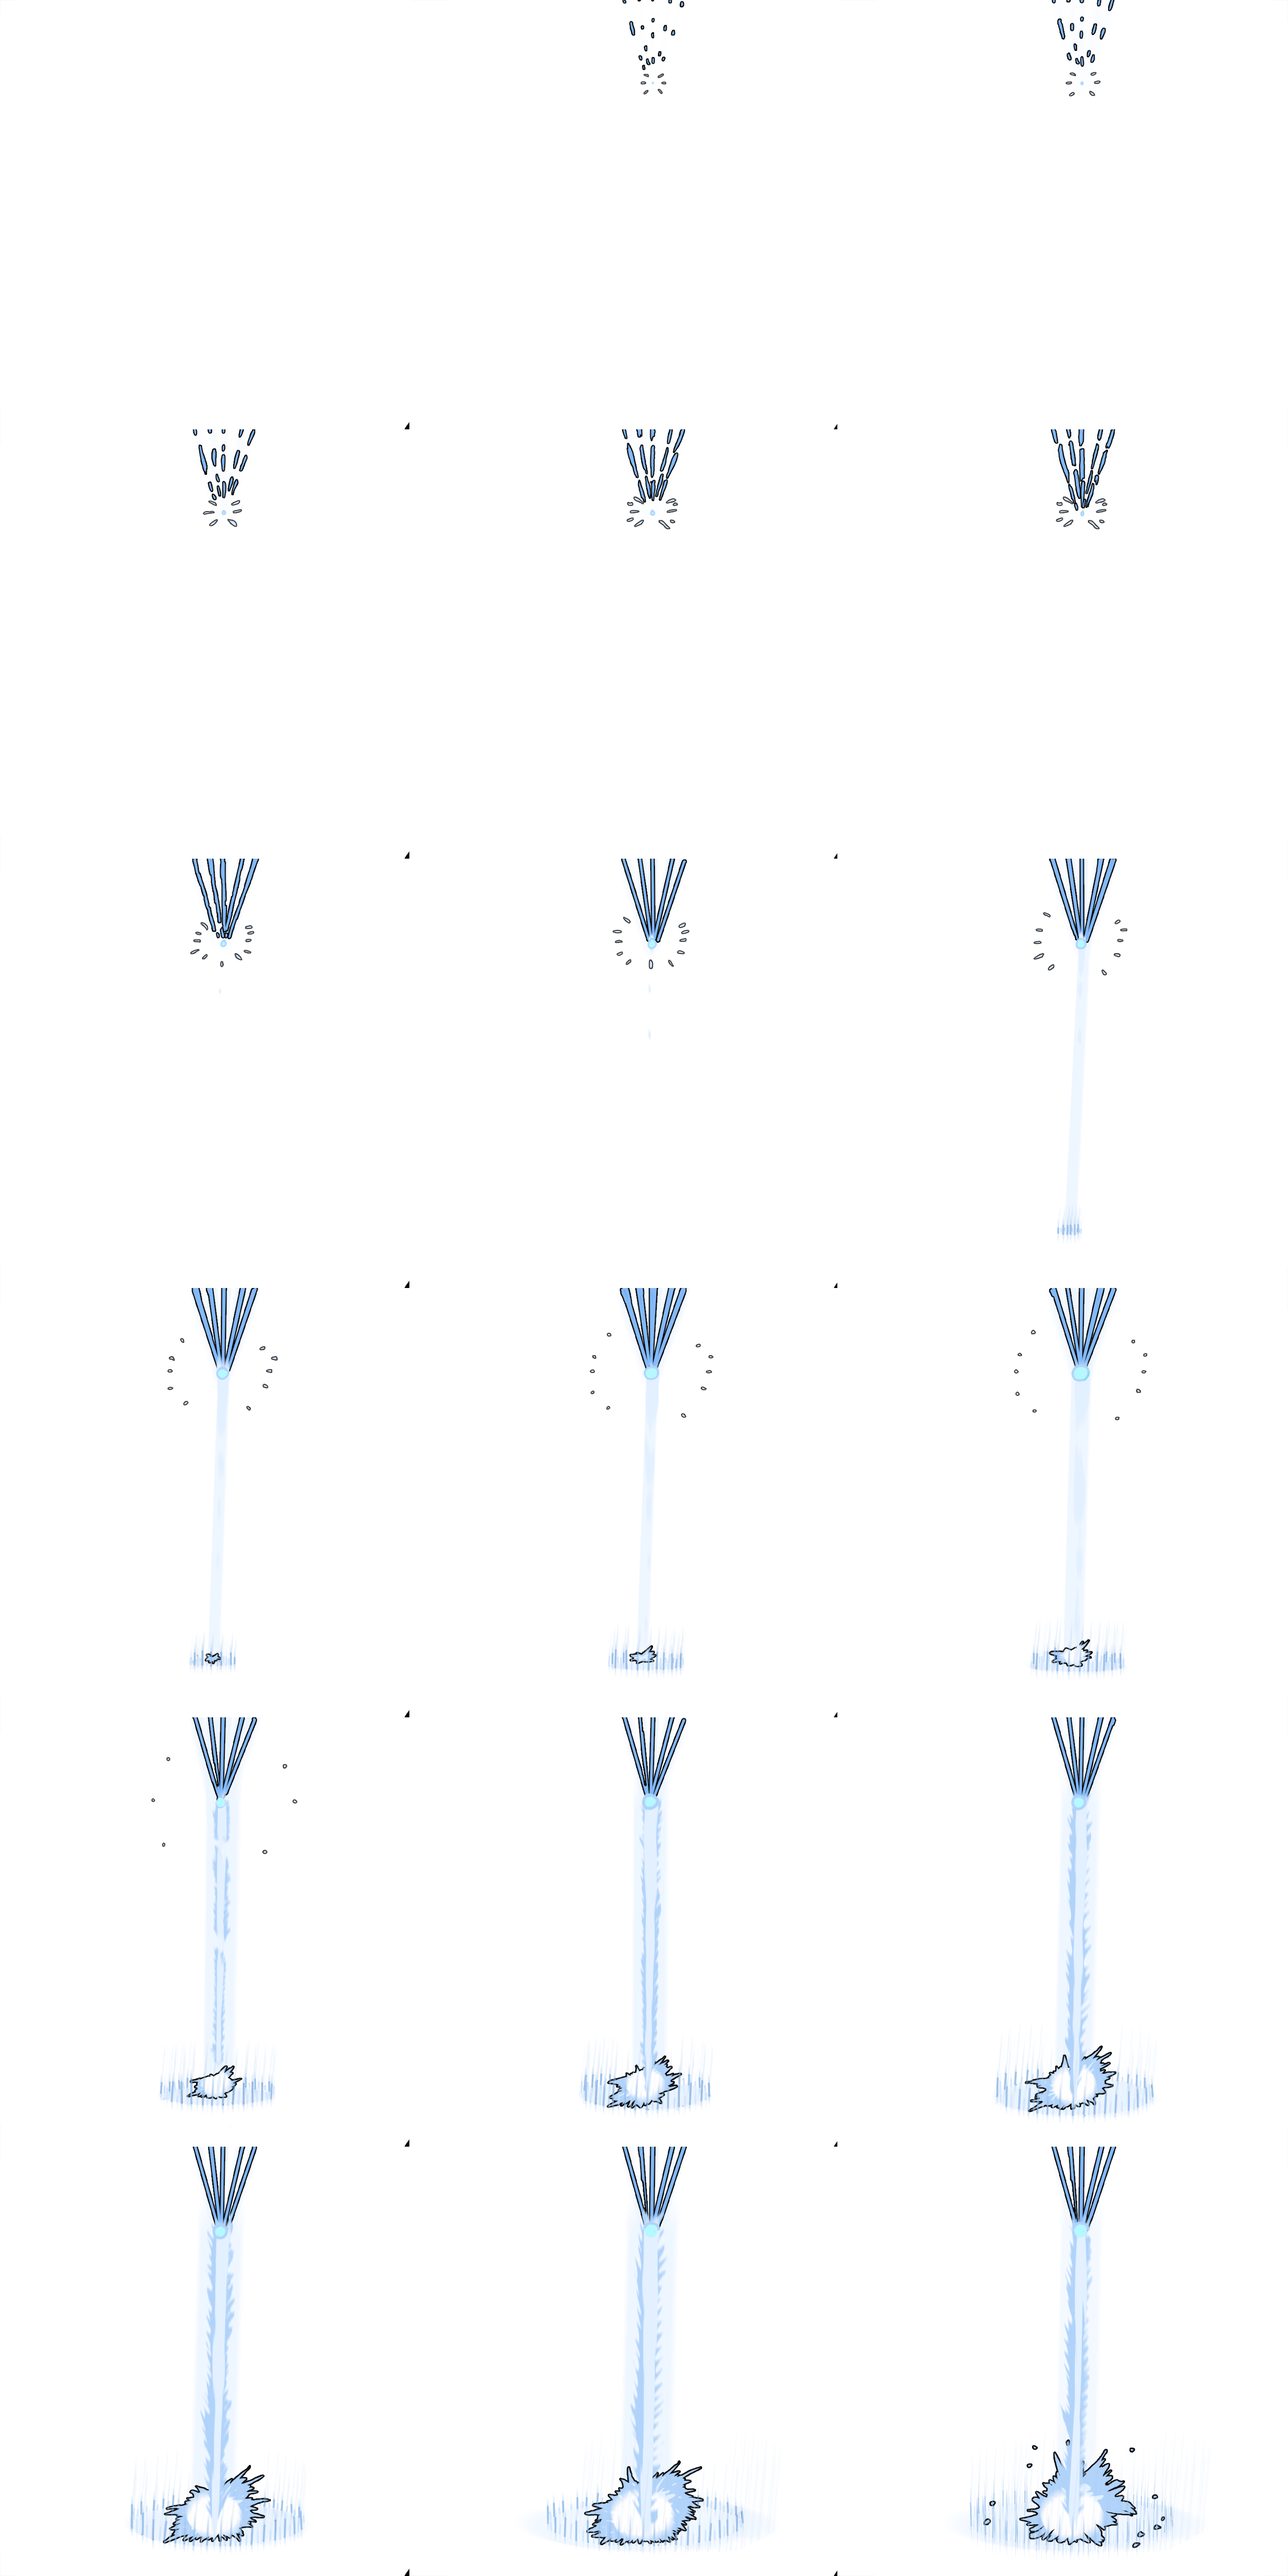
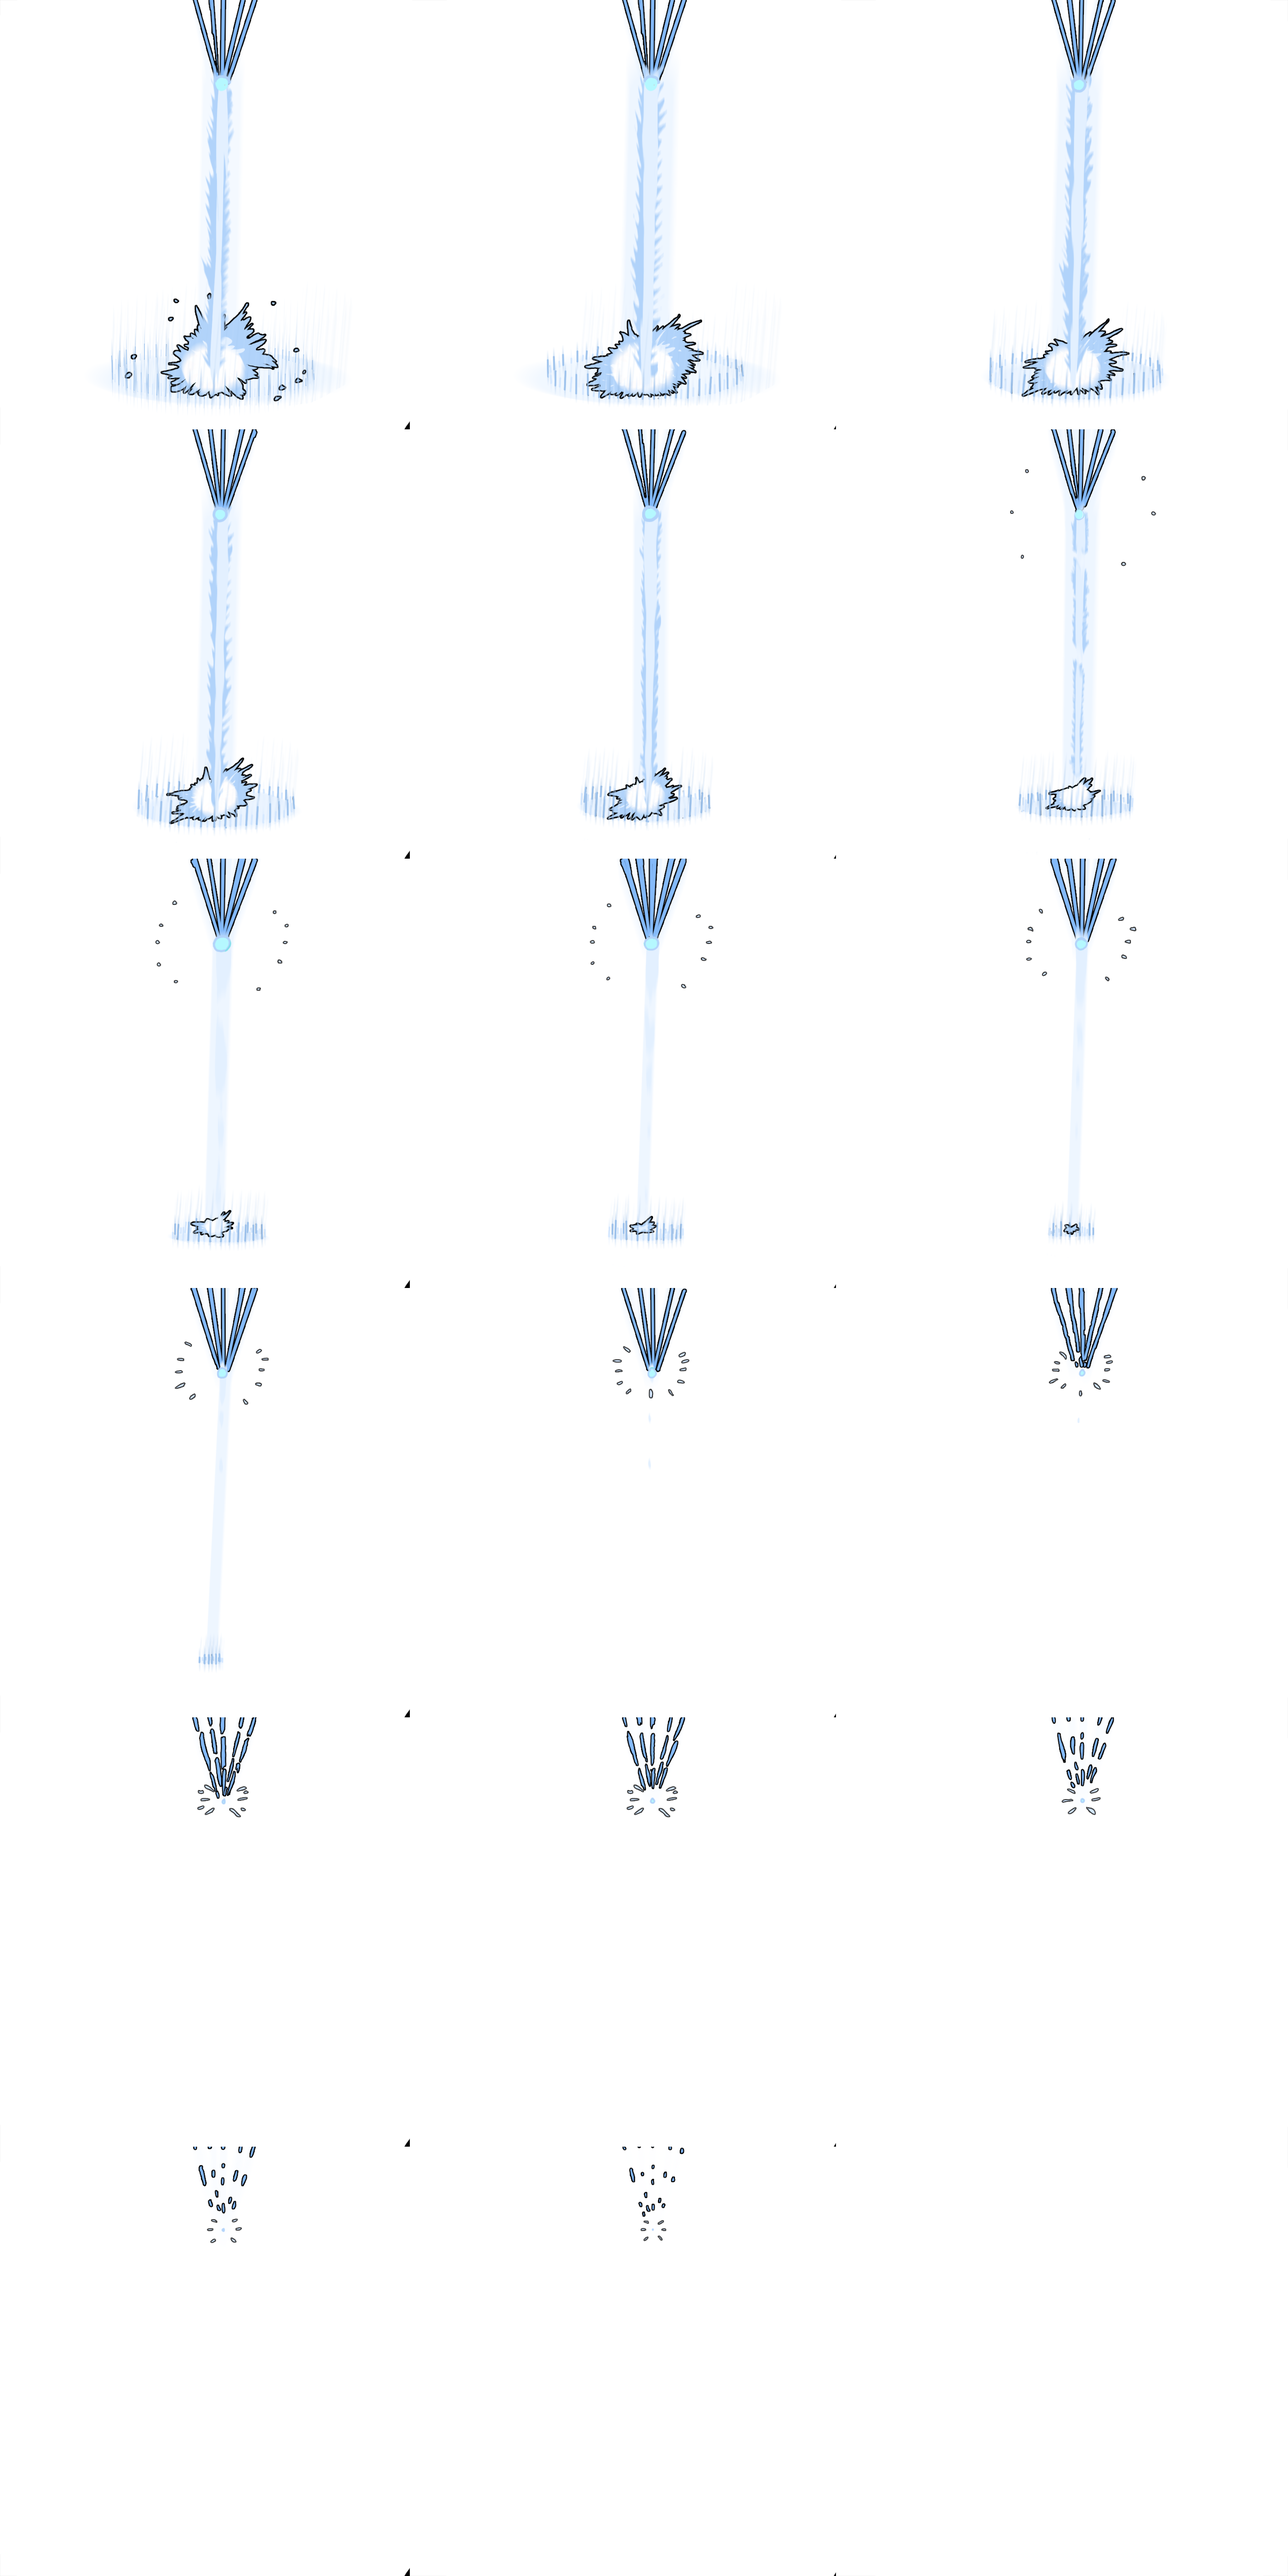
added: check asté

diff --git a/src/app/asteroid/asteroid-view/drone.ts b/src/app/asteroid/asteroid-view/drone.ts
@@ -5,7 +5,8 @@ export class Drone {
     drone: PIXI.Sprite;
     app: PIXI.Application;
     public laser: PIXI.extras.AnimatedSprite;
-    laserFirstState:boolean;
+    laserFirstState: boolean;
+    isBeginClick: boolean;
 
     delta: number;
     public isMining: boolean;
@@ -37,10 +38,11 @@ export class Drone {
         this.laserAnim.gotoAndPlay(0);
         this.laserAnim.anchor.set(0.5, 0.04);
         this.laserAnim.animationSpeed = 0.35;
-        this.laserAnim.visible = false;
+        this.laserAnim.visible = true;
 
+        this.isBeginClick = true;
         this.drone.addChild(this.laserAnim);
-        this.initLaser();
+        this.initLaser();   
 
         // Listen for animate update
         this.app.ticker.add((delta) => {
@@ -49,6 +51,7 @@ export class Drone {
                     this.delta = 0;
                 }
                 this.delta += (2 * Math.PI) / 1000;
+
                 if (this.isMining) {
                     this.drone.x = this.xBaseDrone;
                     this.drone.y = this.yBaseDrone;
@@ -56,7 +59,6 @@ export class Drone {
                     this.laserAnim.visible = false;
                     this.delta = 0;
                 } else {
-                    this.laserAnim.visible = true;
                     this.drone.x = this.xBaseDrone + Math.cos(this.delta) * 50;
                     this.drone.y = this.yBaseDrone + Math.sin(this.delta) * 50;
                     this.drone.rotation = Math.sin(this.delta) * 0.25;
@@ -70,8 +72,9 @@ export class Drone {
          946, 946));
         this.laserAnim_actif1.gotoAndPlay(0);
         this.laserAnim_actif1.anchor.set(0.5, 0.04);
-        this.laserAnim_actif1.animationSpeed = 0.25;
+        this.laserAnim_actif1.animationSpeed = 0.30;
         this.laserAnim_actif1.visible = false;
+        this.laserAnim_actif1.loop = false;
 
         this.drone.addChild(this.laserAnim_actif1);
 
@@ -88,13 +91,39 @@ export class Drone {
         946, 946));
         this.laserAnim_actif3.gotoAndPlay(0);
         this.laserAnim_actif3.anchor.set(0.5, 0.04);
-        this.laserAnim_actif3.animationSpeed = 0.35;
+        this.laserAnim_actif3.animationSpeed = 0.25;
         this.laserAnim_actif3.visible = false;
+        this.laserAnim_actif3.loop = false;
 
         this.drone.addChild(this.laserAnim_actif3);
     }
 
     activeLaser() {
-        
+        if (this.isBeginClick) {
+            this.laserAnim.visible = false;
+            this.laserAnim_actif1.visible = true;
+            this.laserAnim_actif1.stop();
+            this.laserAnim_actif1.gotoAndPlay(0);
+            this.isBeginClick = false;
+            this.laserAnim_actif1.onComplete = () => {
+                this.laserAnim_actif1.visible = false;
+                this.laserAnim_actif2.visible = true;
+            };
+        }
+    }
+
+    desactivLaser() {
+        if (!this.isBeginClick) {
+            this.laserAnim_actif2.visible = false;
+            this.laserAnim_actif3.visible = true;
+            this.laserAnim_actif3.stop();
+            this.laserAnim_actif3.gotoAndPlay(0);
+            this.isBeginClick = true;
+            this.laserAnim_actif3.onComplete = () => {
+                this.laserAnim_actif3.visible = false;
+                this.laserAnim_actif3.stop();
+                this.laserAnim.visible = true;
+            };
+        }
     }
 }

diff --git a/src/app/asteroid/asteroid-view/asteroidSprite.ts b/src/app/asteroid/asteroid-view/asteroidSprite.ts
@@ -10,8 +10,12 @@ export class AsteroidSprite {
     app: PIXI.Application;
     clickEmitter: ParticleBase;
     destructionEmitter: ParticleBase;
+
+    checkAstero: boolean;
+    checkAsteroComp: boolean;
     asteroidSeed: string;
     delta = 0;
+    deltaCompteur = 0;
 
     xBaseAsteroid: number;
     yBaseAsteroid: number;
@@ -23,7 +27,7 @@ export class AsteroidSprite {
         this.app = app;
         this.asteroid = new Array<PIXI.Sprite>();
         this.asteroidFolders = { "carbon": new Array<PIXI.Texture>(), "titanium": new Array<PIXI.Texture>() };
-
+        this.checkAstero = false;
         //this.asteroidSeed = seed;
         this.initAsteroidSprites();
 
@@ -35,6 +39,8 @@ export class AsteroidSprite {
         this.xBaseAsteroid = this.app.renderer.width / 2;
         this.yBaseAsteroid = this.app.renderer.height / 2;
 
+        let shakeAstex = 1;
+        let shakeAstey = 1;
         // Listen for animate update
         this.app.ticker.add((delta) => {
             if (this.asteroid[0]) {
@@ -43,8 +49,20 @@ export class AsteroidSprite {
                 }
                 this.delta += (2 * Math.PI) / 1000;
 
-                this.asteroid[0].x = this.xBaseAsteroid + Math.cos(this.delta) * -5;
-                this.asteroid[0].y = this.yBaseAsteroid + Math.sin(this.delta) * -15;
+                if (this.checkAstero) {
+                    this.deltaCompteur++;
+                } else {
+                    this.deltaCompteur = 0;
+                }
+                if (this.deltaCompteur > 20) {
+                    shakeAstex = 150 * this.delta;
+                    shakeAstey = 1 * this.delta;
+                } else {
+                    shakeAstex = this.delta;
+                    shakeAstey = this.delta;
+                }
+                this.asteroid[0].x = this.xBaseAsteroid + Math.cos(shakeAstex) * -5;
+                this.asteroid[0].y = this.yBaseAsteroid + Math.sin(shakeAstey) * -15;
             }
         });
 
@@ -66,8 +84,8 @@ export class AsteroidSprite {
         sprite.anchor.set(0.5);
 
         if (x === 0 && y === 0) {
-            sprite.x = this.app.renderer.width / 2 ;
-            sprite.y = this.app.renderer.height / 2 ;
+            sprite.x = this.app.renderer.width / 2;
+            sprite.y = this.app.renderer.height / 2;
             this.app.stage.addChildAt(sprite, 1);
         } else {
             this.asteroid[0].addChild(sprite);

diff --git a/src/app/asteroid/asteroid-view/asteroid-view.component.ts b/src/app/asteroid/asteroid-view/asteroid-view.component.ts
@@ -100,10 +100,10 @@ export class AsteroidViewComponent implements AfterViewInit {
         this.state = state;
       }
 
-
       if (user.asteroid.currentCapacity > this.asteroid.currentCapacity) {
         this.asteroidSprite.changeSprite(user.asteroid);
         this.drone.isMining = false;
+        this.drone.laserAnim.visible = true;
       }
       if (this.drone.laser != null) {
         this.drone.laser.visible = user.getOreAmountFromString(user.asteroid.ore) <
@@ -122,7 +122,11 @@ export class AsteroidViewComponent implements AfterViewInit {
     if (this.userS.currentUser.currentMineRate < max) {
       this.userS.modifyCurrentMineRate(this.userS.currentUser.currentMineRate + max * 0.1 > max ? max :
         this.userS.currentUser.currentMineRate + max * 0.1);
-      // this.updateLaserSpeed();
+    }
+
+    if (this.userS.currentUser.currentMineRate === max) {
+      this.drone.activeLaser();
+      this.asteroidSprite.checkAstero = true;
     }
   }
 
@@ -136,6 +140,8 @@ export class AsteroidViewComponent implements AfterViewInit {
           base ? base : this.userS.currentUser.currentMineRate - (0.1 * max));
       } else {
         this.userS.modifyCurrentMineRate(base);
+        this.drone.desactivLaser();
+        this.asteroidSprite.checkAstero = false;
       }
     } else {
       this.clicked = false;

diff --git a/src/app/topbar/quest.service.ts b/src/app/topbar/quest.service.ts
@@ -20,13 +20,14 @@ export class QuestService {
     this.db.object('questGroup').valueChanges().subscribe(
       (snapshot: any) => {
         this.questGroup.values = snapshot.values;
-        this.questGroup.gain = snapshot.gain + this.userS.currentUser.score * 0.05;
+        this.questGroup.gain = snapshot.gain + (this.userS.currentUser ? this.userS.currentUser.score  : 1) * 0.05;
     });
 
   }
 
   FillQuestGroup(snapshot) {
-      this.questGroup = new Quest(snapshot.name, snapshot.type, snapshot.values, 0 , Math.floor(this.userS.currentUser.score * 0.05));
+      this.questGroup = new Quest(snapshot.name, snapshot.type, snapshot.values, 0 ,
+         Math.floor((this.userS.currentUser ? this.userS.currentUser.score  : 1) * 0.05));
       this.questGroup.valuesFinal = snapshot.valuesFinal;
   }
 
